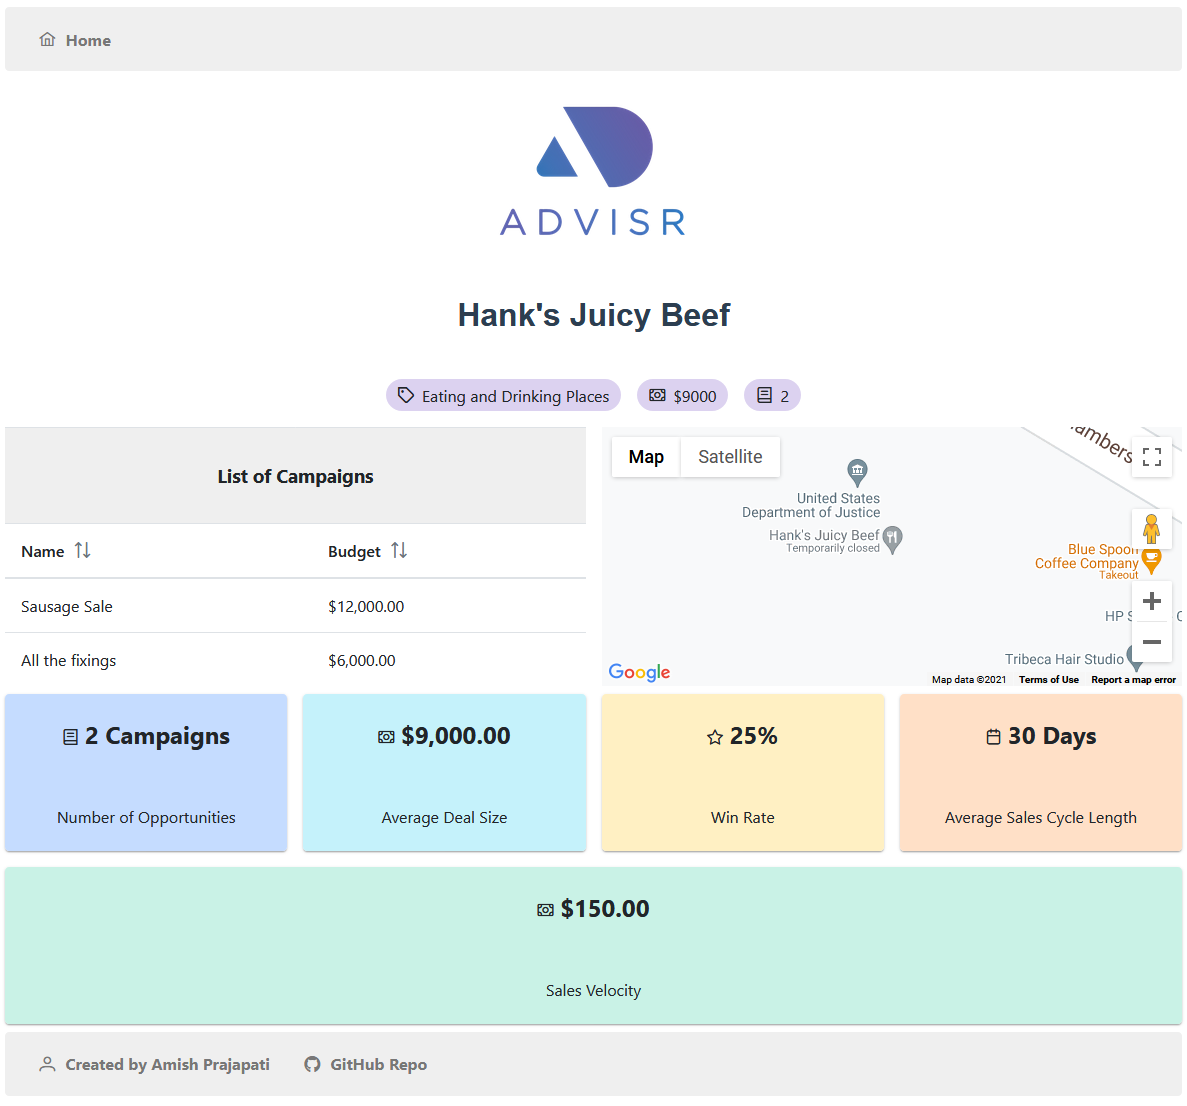
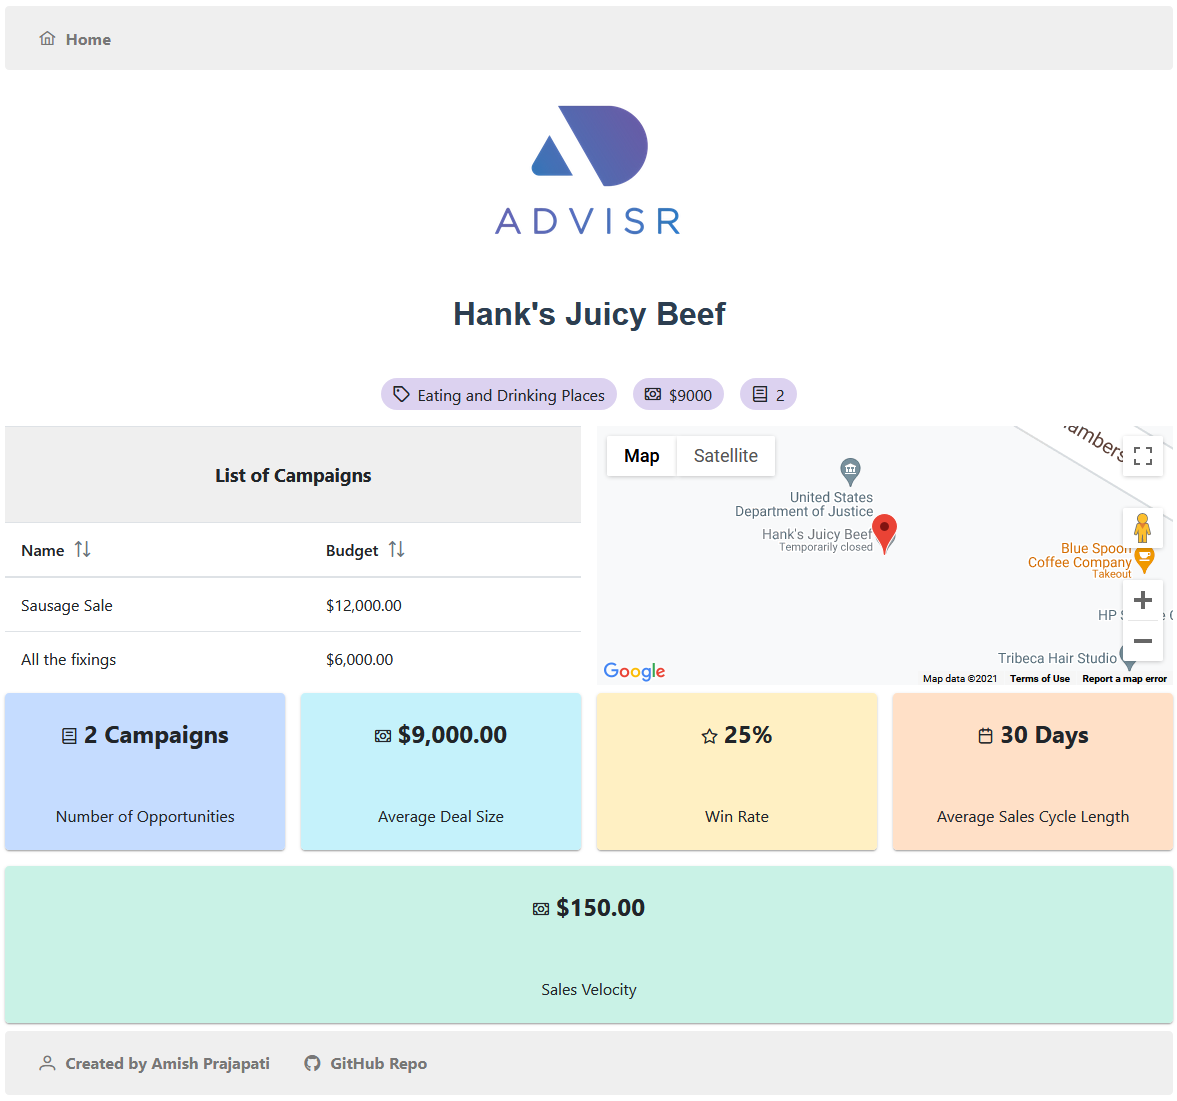
Updated deployment

diff --git a/dist/js/app.96ae23da.js b/dist/js/app.96ae23da.js
@@ -1,0 +1,2 @@
+(function(e){function t(t){for(var a,o,r=t[0],s=t[1],l=t[2],b=0,j=[];b<r.length;b++)o=r[b],Object.prototype.hasOwnProperty.call(i,o)&&i[o]&&j.push(i[o][0]),i[o]=0;for(a in s)Object.prototype.hasOwnProperty.call(s,a)&&(e[a]=s[a]);u&&u(t);while(j.length)j.shift()();return c.push.apply(c,l||[]),n()}function n(){for(var e,t=0;t<c.length;t++){for(var n=c[t],a=!0,r=1;r<n.length;r++){var s=n[r];0!==i[s]&&(a=!1)}a&&(c.splice(t--,1),e=o(o.s=n[0]))}return e}var a={},i={app:0},c=[];function o(t){if(a[t])return a[t].exports;var n=a[t]={i:t,l:!1,exports:{}};return e[t].call(n.exports,n,n.exports,o),n.l=!0,n.exports}o.m=e,o.c=a,o.d=function(e,t,n){o.o(e,t)||Object.defineProperty(e,t,{enumerable:!0,get:n})},o.r=function(e){"undefined"!==typeof Symbol&&Symbol.toStringTag&&Object.defineProperty(e,Symbol.toStringTag,{value:"Module"}),Object.defineProperty(e,"__esModule",{value:!0})},o.t=function(e,t){if(1&t&&(e=o(e)),8&t)return e;if(4&t&&"object"===typeof e&&e&&e.__esModule)return e;var n=Object.create(null);if(o.r(n),Object.defineProperty(n,"default",{enumerable:!0,value:e}),2&t&&"string"!=typeof e)for(var a in e)o.d(n,a,function(t){return e[t]}.bind(null,a));return n},o.n=function(e){var t=e&&e.__esModule?function(){return e["default"]}:function(){return e};return o.d(t,"a",t),t},o.o=function(e,t){return Object.prototype.hasOwnProperty.call(e,t)},o.p="/";var r=window["webpackJsonp"]=window["webpackJsonp"]||[],s=r.push.bind(r);r.push=t,r=r.slice();for(var l=0;l<r.length;l++)t(r[l]);var u=s;c.push([0,"chunk-vendors"]),n()})({0:function(e,t,n){e.exports=n("56d7")},"3ab8":function(e,t,n){"use strict";n("afad")},"56d7":function(e,t,n){"use strict";n.r(t);n("e260"),n("e6cf"),n("cca6"),n("a79d");var a=n("7a23"),i=n("aef1"),c=n.n(i),o={id:"nav"},r=Object(a["j"])("img",{alt:"Advisr logo",height:"200",src:c.a},null,-1);function s(e,t,n,i,c,s){var l=Object(a["z"])("Menubar"),u=Object(a["z"])("router-view");return Object(a["t"])(),Object(a["f"])("div",o,[Object(a["j"])(l,{model:c.headerItems},null,8,["model"]),r,Object(a["j"])(u),Object(a["j"])(l,{model:c.footerItems},null,8,["model"])])}var l={data:function(){return{headerItems:[{label:"Home",icon:"pi pi-fw pi-home",to:"/"}],footerItems:[{label:"Created by Amish Prajapati",icon:"pi pi-fw pi-user",url:"https://github.com/amishpr/"},{label:"GitHub Repo",icon:"pi pi-fw pi-github",url:"https://github.com/amishpr/advisr-project"}]}}};n("3ab8");l.render=s;var u=l,b=n("6c02"),j={class:"home"};function d(e,t,n,i,c,o){var r=Object(a["z"])("Table");return Object(a["t"])(),Object(a["f"])("div",j,[Object(a["j"])(r)])}n("b0c0");var p={class:"hello"},f={class:"card"},O={class:"p-fluid"},m={class:"p-input-icon-left"},g=Object(a["j"])("i",{class:"pi pi-search"},null,-1),h=Object(a["i"])(" No businesses found. "),v=Object(a["i"])(" Loading business data. Please wait. ");function y(e,t,n,i,c,o){var r=Object(a["z"])("InputText"),s=Object(a["z"])("Button"),l=Object(a["z"])("Column"),u=Object(a["z"])("DataTable");return Object(a["t"])(),Object(a["f"])("div",p,[Object(a["j"])("div",f,[Object(a["j"])(u,{value:c.businesses,responsiveLayout:"scroll",selectionMode:"single",loading:c.loading,filters:c.filters,"onUpdate:filters":t[2]||(t[2]=function(e){return c.filters=e}),filterDisplay:"menu",globalFilterFields:["name"]},{header:Object(a["I"])((function(){return[Object(a["j"])("div",O,[Object(a["j"])("div",m,[g,Object(a["j"])(r,{modelValue:c.filters["global"].value,"onUpdate:modelValue":t[1]||(t[1]=function(e){return c.filters["global"].value=e}),placeholder:"Search Business Name"},null,8,["modelValue"])])])]})),empty:Object(a["I"])((function(){return[h]})),loading:Object(a["I"])((function(){return[v]})),default:Object(a["I"])((function(){return[Object(a["j"])(l,{field:"name",header:"Business Name",sortable:!0},{body:Object(a["I"])((function(e){return[Object(a["j"])(s,{label:e.data.name,onClick:function(t){return o.goToBusiness(e.data.id)},icon:"pi pi-link",iconPos:"right"},null,8,["label","onClick"])]})),_:1}),Object(a["j"])(l,{field:"category",header:"Category",sortable:!0}),Object(a["j"])(l,{field:"numberOfCampaigns",header:"Number of Campaigns",sortable:!0}),Object(a["j"])(l,{field:"averageCampaignBudget",header:"Average Campaign Budget",sortable:!0},{body:Object(a["I"])((function(e){return[Object(a["i"])(Object(a["D"])(o.formatMoney(e.data.averageCampaignBudget)),1)]})),_:1})]})),_:1},8,["value","loading","filters"])])])}var C=n("d4ec"),I=n("bee2"),k=n("bc3a"),S=n.n(k),w="https://advisr-project.herokuapp.com/",B=function(){function e(){Object(C["a"])(this,e)}return Object(I["a"])(e,[{key:"getAllBusinesses",value:function(){return S.a.get(w+"business/all").then((function(e){return e.data}))}},{key:"getBusinessById",value:function(e){return S.a.get(w+"business/"+e).then((function(e){return e.data}))}}]),e}(),M=n("0393"),D={name:"Table",props:{msg:String},data:function(){return{businesses:null,businessService:null,filters:null,loading:!0}},created:function(){this.businessService=new B,this.initFilters()},mounted:function(){var e=this;this.businessService.getAllBusinesses().then((function(t){e.businesses=t,e.loading=!1}))},methods:{goToBusiness:function(e){this.$router.push({name:"business",params:{id:e}})},formatMoney:function(e){return new Intl.NumberFormat("en-US",{style:"currency",currency:"USD",minimumFractionDigits:2}).format(e)},initFilters:function(){this.filters={global:{value:null,matchMode:M["a"].CONTAINS}}}}};D.render=y;var _=D,z={name:"Home",components:{Table:_}};z.render=d;var T=z,x={class:"business"},N={class:"card"},L={class:"p-grid"},P={class:"p-col-12"},V={class:"p-col-12"},A={class:"p-grid"},F={class:"p-col-6"},R=Object(a["j"])("h3",null,"List of Campaigns",-1),U=Object(a["i"])(" No campaigns found. "),G={class:"p-col-6"},H={class:"p-grid"},$={class:"p-col-3"},J=Object(a["j"])("i",{class:"pi pi-book"},null,-1),K=Object(a["i"])(" Number of Opportunities "),W={class:"p-col-3"},q=Object(a["j"])("i",{class:"pi pi-money-bill"},null,-1),E=Object(a["i"])(" Average Deal Size "),Q={class:"p-col-3"},X=Object(a["j"])("i",{class:"pi pi-star-o"},null,-1),Y=Object(a["i"])(" Win Rate "),Z={class:"p-col-3"},ee=Object(a["j"])("i",{class:"pi pi-calendar"},null,-1),te=Object(a["i"])(" Average Sales Cycle Length "),ne={class:"p-col-12"},ae=Object(a["j"])("i",{class:"pi pi-money-bill"},null,-1),ie=Object(a["i"])(" Sales Velocity ");function ce(e,t,n,i,c,o){var r=this,s=Object(a["z"])("Chip"),l=Object(a["z"])("Column"),u=Object(a["z"])("DataTable"),b=Object(a["z"])("GMapMarker"),j=Object(a["z"])("GMapCluster"),d=Object(a["z"])("GMapMap"),p=Object(a["z"])("Card");return Object(a["t"])(),Object(a["f"])("div",x,[Object(a["j"])("div",N,[Object(a["j"])("div",L,[Object(a["j"])("div",P,[Object(a["j"])("h1",null,Object(a["D"])(this.name),1)]),Object(a["j"])("div",V,[Object(a["j"])(s,{label:this.category,icon:"pi pi-tag",class:"p-m-2",style:{"background-color":"#dcd2f0"}},null,8,["label"]),Object(a["j"])(s,{label:"$"+this.averageCampaignBudget,icon:"pi pi-money-bill",class:"p-m-2",style:{"background-color":"#dcd2f0"}},null,8,["label"]),Object(a["j"])(s,{label:this.numberOfCampaigns,icon:"pi pi-book",class:"p-m-2",style:{"background-color":"#dcd2f0"}},null,8,["label"])])]),Object(a["j"])("div",A,[Object(a["j"])("div",F,[Object(a["j"])(u,{value:c.campaigns,selectionMode:"single",dataKey:"id",responsiveLayout:"scroll"},{header:Object(a["I"])((function(){return[R]})),empty:Object(a["I"])((function(){return[U]})),default:Object(a["I"])((function(){return[Object(a["j"])(l,{field:"name",header:"Name",sortable:!0}),Object(a["j"])(l,{field:"budget",header:"Budget",sortable:!0},{body:Object(a["I"])((function(e){return[Object(a["i"])(Object(a["D"])(o.formatMoney(e.data.budget)),1)]})),_:1})]})),_:1},8,["value"])]),Object(a["j"])("div",G,[Object(a["j"])(d,{center:c.location,zoom:20,"map-type-id":"terrain",style:{height:"100%"}},{default:Object(a["I"])((function(){return[Object(a["j"])(j,null,{default:Object(a["I"])((function(){return[(Object(a["t"])(!0),Object(a["f"])(a["a"],null,Object(a["x"])(c.markers,(function(t,n){return Object(a["t"])(),Object(a["f"])(b,{key:n,position:t.position,clickable:!0,draggable:!0,onClick:function(n){return e.center=t.position}},null,8,["position","onClick"])})),128))]})),_:1})]})),_:1},8,["center"])])]),Object(a["j"])("div",H,[Object(a["j"])("div",$,[Object(a["j"])(p,{style:{"background-color":"#c5dcff"}},{title:Object(a["I"])((function(){return[J,Object(a["i"])(" "+Object(a["D"])(r.numberOfCampaigns)+" Campaigns ",1)]})),footer:Object(a["I"])((function(){return[K]})),_:1})]),Object(a["j"])("div",W,[Object(a["j"])(p,{style:{"background-color":"#c5f2fb"}},{title:Object(a["I"])((function(){return[q,Object(a["i"])(" "+Object(a["D"])(o.formatMoney(r.averageCampaignBudget)),1)]})),footer:Object(a["I"])((function(){return[E]})),_:1})]),Object(a["j"])("div",Q,[Object(a["j"])(p,{style:{"background-color":"#fff0c3"}},{title:Object(a["I"])((function(){return[X,Object(a["i"])(" "+Object(a["D"])(100*r.winRate)+"% ",1)]})),footer:Object(a["I"])((function(){return[Y]})),_:1})]),Object(a["j"])("div",Z,[Object(a["j"])(p,{style:{"background-color":"#ffe0c7"}},{title:Object(a["I"])((function(){return[ee,Object(a["i"])(" "+Object(a["D"])(r.salesLength)+" Days ",1)]})),footer:Object(a["I"])((function(){return[te]})),_:1})]),Object(a["j"])("div",ne,[Object(a["j"])(p,{style:{"background-color":"#c9f2e6"}},{title:Object(a["I"])((function(){return[ae,Object(a["i"])(" "+Object(a["D"])(o.formatMoney(r.salesVelocity)),1)]})),footer:Object(a["I"])((function(){return[ie]})),_:1})])])])])}n("d3b7"),n("25f0");var oe={name:"Business",data:function(){return{businessId:this.$route.params.id,businessService:null,name:"",category:"",campaigns:[{id:1,name:"",budget:1}],location:{lat:0,lng:0},averageCampaignBudget:0,numberOfCampaigns:0,winRate:.25,salesLength:30,salesVelocity:0,markers:[{position:{lat:51.093048,lng:6.84212}}]}},created:function(){this.businessService=new B},mounted:function(){var e=this;this.businessService.getBusinessById(this.businessId).then((function(t){e.name=t.name,e.category=t.category,e.campaigns=t.campaigns,e.location=t.location,e.markers[0].position=t.location,e.averageCampaignBudget=t.averageCampaignBudget,e.numberOfCampaigns=t.numberOfCampaigns.toString(),0==e.numberOfCampaigns?(e.winRate=0,e.salesLength=0,e.salesVelocity=0):e.calculateSalesVelocity()}))},methods:{formatMoney:function(e){return new Intl.NumberFormat("en-US",{style:"currency",currency:"USD",minimumFractionDigits:2}).format(e)},calculateSalesVelocity:function(){this.salesVelocity=this.numberOfCampaigns*this.averageCampaignBudget*this.winRate/this.salesLength}}};oe.render=ce;var re=oe,se=[{path:"/",name:"Home",component:T},{path:"/business/:id",name:"business",component:re}],le=Object(b["a"])({history:Object(b["b"])(),routes:se}),ue=le,be=n("5502"),je=Object(be["a"])({state:{},mutations:{},actions:{},modules:{}}),de=n("9319"),pe=n("5b2c"),fe=n("6f85"),Oe=n("1f80"),me=n("bb57"),ge=n("8398"),he=n("dc4a"),ve=n("c35b"),ye=n("c0c3"),Ce=n("a1e6"),Ie=n("9899"),ke=n("320b"),Se=(n("b13d"),n("e1ae"),n("4121"),n("bddf"),Object(a["e"])(u));Se.use(je),Se.use(ue),Se.use(de["a"]),Se.component("DataTable",pe["a"]),Se.component("Column",fe["a"]),Se.component("ColumnGroup",Oe["a"]),Se.component("Button",me["a"]),Se.component("InputText",ge["a"]),Se.component("Listbox",he["a"]),Se.component("TabMenu",ve["a"]),Se.component("Menubar",ye["a"]),Se.component("Chip",Ce["a"]),Se.component("Card",Ie["a"]),Se.use(ke["a"],{load:{key:""}}),Se.mount("#app")},aef1:function(e,t,n){e.exports=n.p+"img/advisrlogo-nobg.134aa5df.png"},afad:function(e,t,n){}});
+//# sourceMappingURL=app.96ae23da.js.map

diff --git a/dist/index.html b/dist/index.html
@@ -1,1 +1,1 @@
-<!DOCTYPE html><html lang=""><head><meta charset="utf-8"><meta http-equiv="X-UA-Compatible" content="IE=edge"><meta name="viewport" content="width=device-width,initial-scale=1"><link rel="icon" href="https://advisr-project.herokuapp.com/favicon.ico"><title>Advisr Project</title><link href="/css/app.f4fdb42d.css" rel="preload" as="style"><link href="/css/chunk-vendors.981640e7.css" rel="preload" as="style"><link href="/js/app.2ca3b531.js" rel="preload" as="script"><link href="/js/chunk-vendors.4bbf8be4.js" rel="preload" as="script"><link href="/css/chunk-vendors.981640e7.css" rel="stylesheet"><link href="/css/app.f4fdb42d.css" rel="stylesheet"></head><body><noscript><strong>We're sorry but Advisr Project doesn't work properly without JavaScript enabled. Please enable it to continue.</strong></noscript><div id="app"></div><script src="/js/chunk-vendors.4bbf8be4.js"></script><script src="/js/app.2ca3b531.js"></script></body></html>
+<!DOCTYPE html><html lang=""><head><meta charset="utf-8"><meta http-equiv="X-UA-Compatible" content="IE=edge"><meta name="viewport" content="width=device-width,initial-scale=1"><link rel="icon" href="https://advisr-project.herokuapp.com/favicon.ico"><title>Advisr Project</title><link href="/css/app.f4fdb42d.css" rel="preload" as="style"><link href="/css/chunk-vendors.981640e7.css" rel="preload" as="style"><link href="/js/app.96ae23da.js" rel="preload" as="script"><link href="/js/chunk-vendors.4bbf8be4.js" rel="preload" as="script"><link href="/css/chunk-vendors.981640e7.css" rel="stylesheet"><link href="/css/app.f4fdb42d.css" rel="stylesheet"></head><body><noscript><strong>We're sorry but Advisr Project doesn't work properly without JavaScript enabled. Please enable it to continue.</strong></noscript><div id="app"></div><script src="/js/chunk-vendors.4bbf8be4.js"></script><script src="/js/app.96ae23da.js"></script></body></html>

diff --git a/src/components/Business.vue b/src/components/Business.vue
@@ -54,6 +54,16 @@
             map-type-id="terrain"
             style="height: 100%"
           >
+            <GMapCluster>
+              <GMapMarker
+                  :key="index"
+                  v-for="(m, index) in markers"
+                  :position="m.position"
+                  :clickable="true"
+                  :draggable="true"
+                  @click="center=m.position"
+              />
+            </GMapCluster>
           </GMapMap>
         </div>
       </div>
@@ -125,6 +135,7 @@ export default {
       winRate: 0.25,
       salesLength: 30,
       salesVelocity: 0,
+      markers: [ { position: { lat: 51.093048, lng: 6.842120 }, } ]
     };
   },
   created() {
@@ -136,6 +147,7 @@ export default {
       this.category = data.category;
       this.campaigns = data.campaigns;
       this.location = data.location;
+      this.markers[0].position = data.location;
       this.averageCampaignBudget = data.averageCampaignBudget;
       this.numberOfCampaigns = data.numberOfCampaigns.toString();
 
